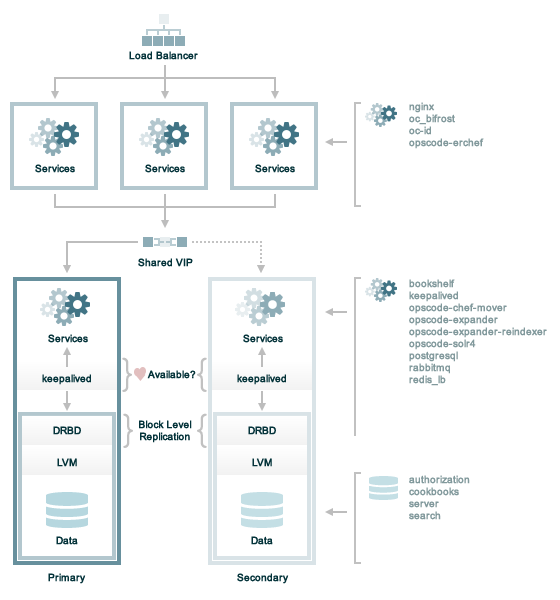
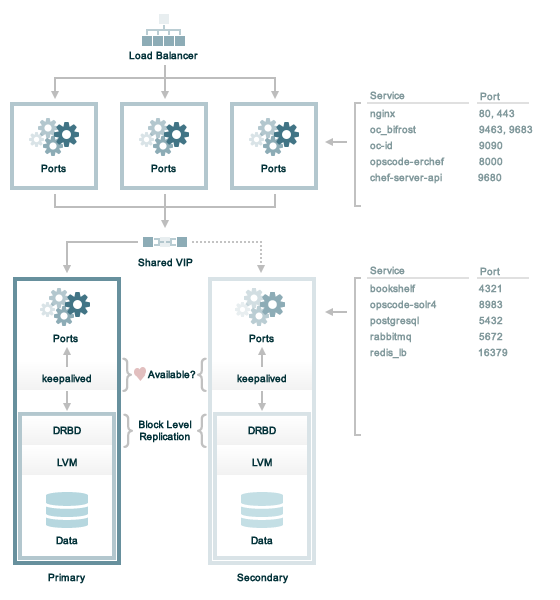
edit

diff --git a/release_chef_12-2/source/release_notes.rst b/release_chef_12-2/source/release_notes.rst
@@ -11,8 +11,8 @@ What's New
 The following items are new for |chef client| 12.2 and/or are changes from previous versions. The short version:
 
 * **chef-client may be run in audit-mode** Use |chef client_audit| to run audit tests against a node. The |chef client| may be run in |chef client_audit| as part of the |chef client| run and also independently of the |chef client| run.
-* **control method added to Recipe DSL** Use the ``control`` method to define audit tests that match files, packages, and services.
-* **control_group method added to Recipe DSL** Use the ``control_group`` method to controls into a single audit.
+* **control method added to Recipe DSL** Use the ``control`` method to define audits that match directories, files, packages, ports, and services.
+* **control_group method added to Recipe DSL** Use the ``control_group`` method to ``control`` methods into a single audit.
 
 control
 -----------------------------------------------------
